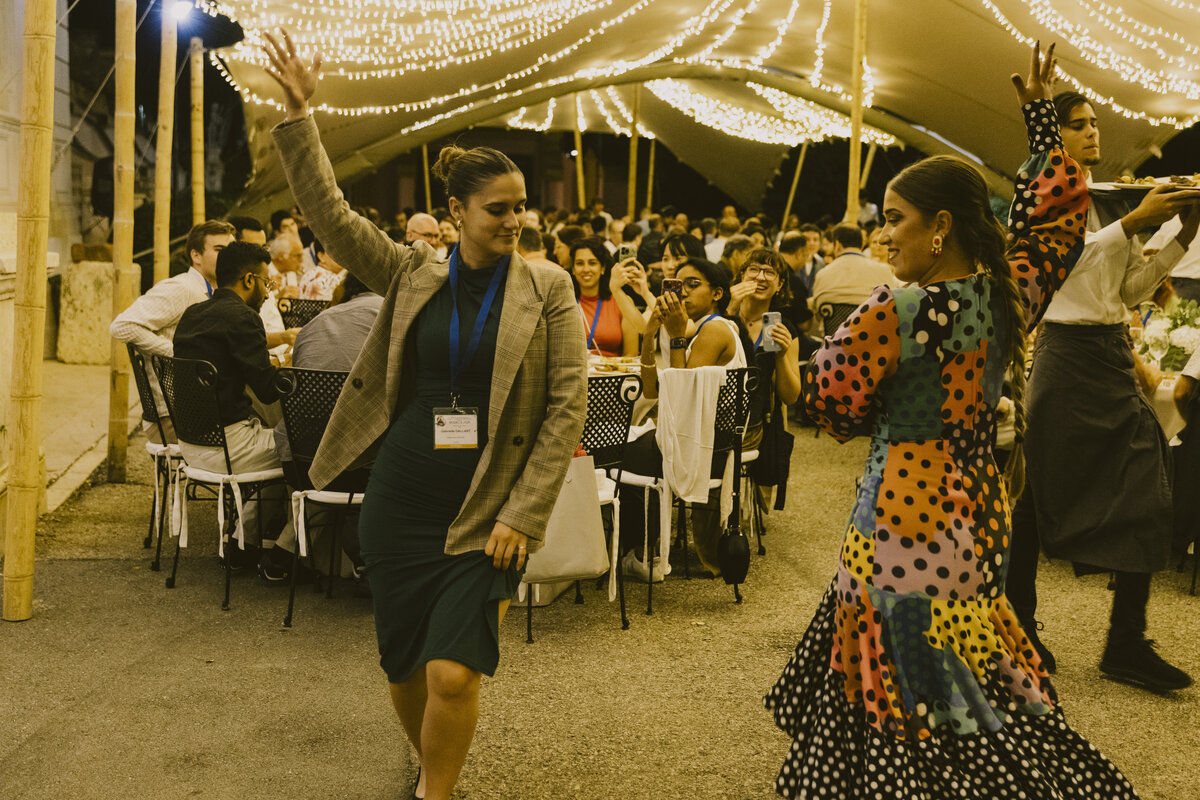
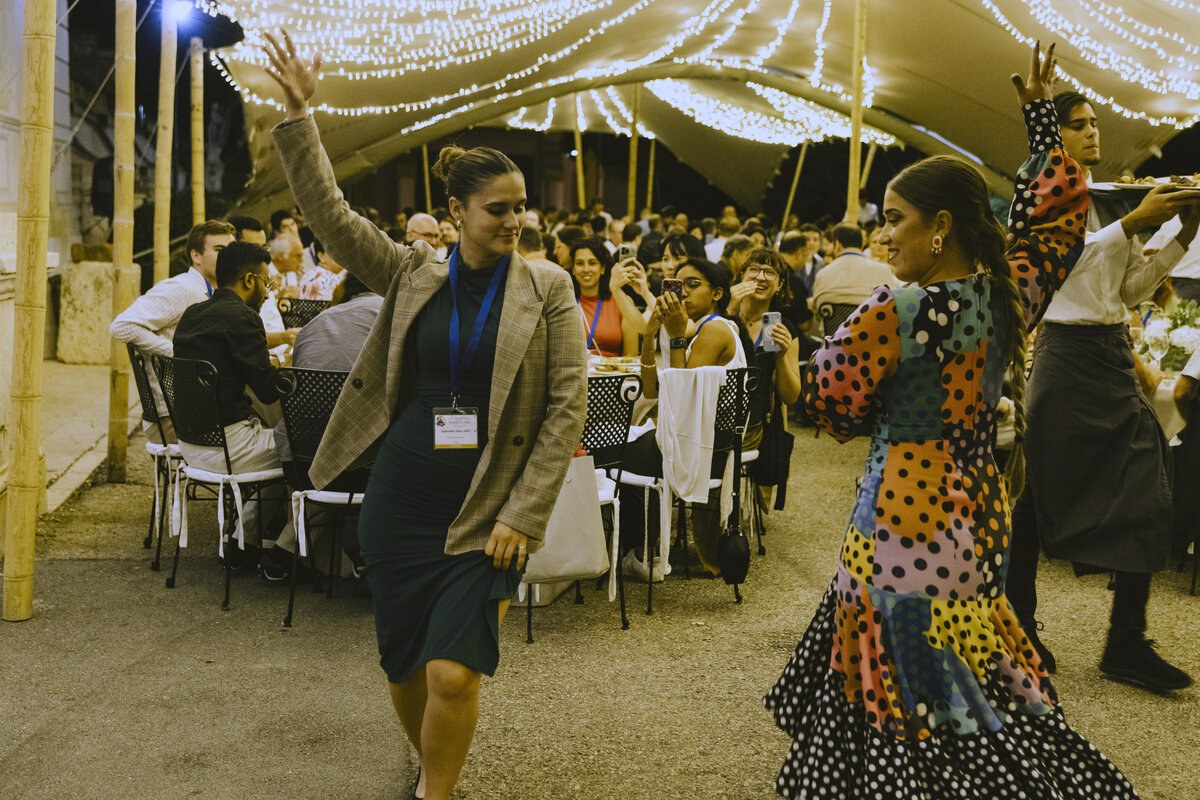
Reorder the MODELS 2026 trip report photos and warm-correct the banquet shots
Put the MODELS 2026 banner first, then the volunteers and beach photos,
then the banquet photos, and reorder the caption to match. Reduce the
orange cast from the string lights on the flamenco and banquet photos so
they sit better next to the daytime shots.

diff --git a/_news/2026-10-13-models-edtconf-2026.md b/_news/2026-10-13-models-edtconf-2026.md
@@ -34,20 +34,6 @@ Finally, a big thank you to Lola Burgueño (University of Málaga), the General 
 
 <figure class="figure-grid">
   <img
-    src="/assets/img/news/models-edtconf-2026-flamenco.jpg"
-    alt="Gabrielle Gallant, in a blazer and conference badge, dancing flamenco with a performer in a polka-dot dress under the string-lit tent at the MODELS 2026 banquet."
-    width="1200"
-    height="800"
-    loading="lazy"
-  />
-  <img
-    src="/assets/img/news/models-edtconf-2026-banquet.jpg"
-    alt="Bentley Oakes and Kérian Fiter under a tent of string lights at the MODELS 2026 banquet."
-    width="1200"
-    height="900"
-    loading="lazy"
-  />
-  <img
     class="figure-grid-wide"
     src="/assets/img/news/models-edtconf-2026-banner.jpg"
     alt="The MODELS 2026 banner: the conference emblem of a castle above the sea with palm trees, next to the text 29th International Conference on Model Driven Engineering Languages and Systems, MODELS 2026, 4 to 9 October 2026, Malaga, Spain."
@@ -69,5 +55,19 @@ Finally, a big thank you to Lola Burgueño (University of Málaga), the General 
     height="800"
     loading="lazy"
   />
-  <figcaption class="caption">Gabrielle Gallant dancing flamenco at the MODELS 2026 banquet, with Kérian Fiter at the banquet, the MODELS 2026 student volunteers (Gabrielle is at the front right), and current and former GEODES members on the beach.</figcaption>
+  <img
+    src="/assets/img/news/models-edtconf-2026-flamenco.jpg"
+    alt="Gabrielle Gallant, in a blazer and conference badge, dancing flamenco with a performer in a polka-dot dress under the string-lit tent at the MODELS 2026 banquet."
+    width="1200"
+    height="800"
+    loading="lazy"
+  />
+  <img
+    src="/assets/img/news/models-edtconf-2026-banquet.jpg"
+    alt="Bentley Oakes and Kérian Fiter under a tent of string lights at the MODELS 2026 banquet."
+    width="1200"
+    height="900"
+    loading="lazy"
+  />
+  <figcaption class="caption">The MODELS 2026 student volunteers (Gabrielle Gallant is at the front right), current and former GEODES members on the beach, Gabrielle dancing flamenco at the MODELS 2026 banquet, and Kérian Fiter and me at the banquet.</figcaption>
 </figure>
